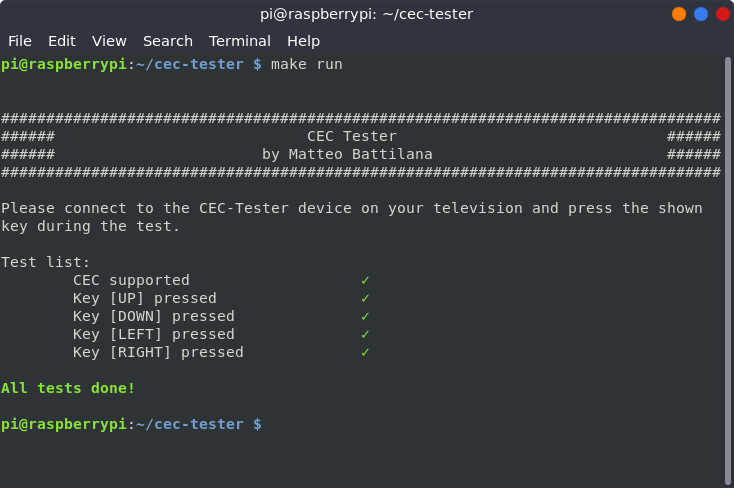
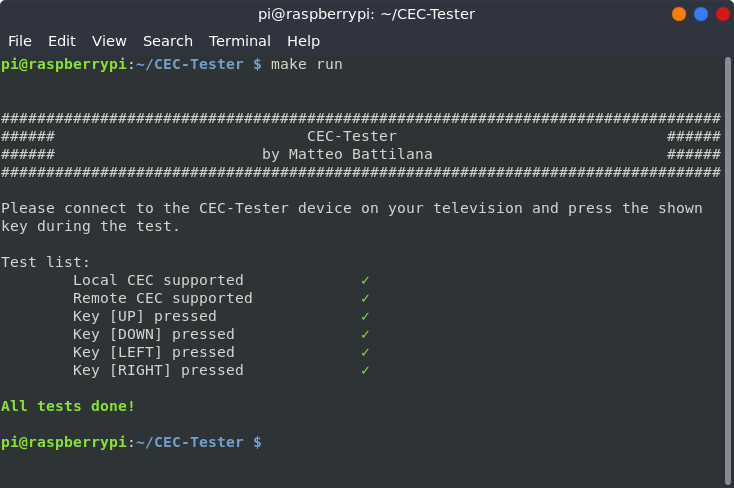
Added remote and local CEC ping test Updated screenshot according to the new features

Changed region(s): [[0.0, 0.5533, 0.3597, 0.9221], [0.3597, 0.0, 0.6594, 0.0615], [0.2098, 0.123, 0.2698, 0.1537]]

diff --git a/cec-tester.cpp b/cec-tester.cpp
@@ -58,7 +58,7 @@ int main(int argc, char* argv[])
 
 	// Setup
 	cec_config.clientVersion       = CEC::LIBCEC_VERSION_CURRENT;
-	cec_config.bActivateSource	   = 1;
+	cec_config.bActivateSource	   = 0;
 	cec_config.callbacks           = &cec_callbacks;
 	cec_config.deviceTypes.Add(CEC::CEC_DEVICE_TYPE_RECORDING_DEVICE);
 	cec_callbacks.keyPress    		 = &on_keypress;
@@ -74,7 +74,7 @@ int main(int argc, char* argv[])
 
 	// Try to automatically determine the CEC devices
 	std::array<CEC::cec_adapter_descriptor,10> devices;
-	int8_t devices_found = cec_adapter->DetectAdapters(devices.data(), devices.size(), nullptr, true);
+	int8_t devices_found = cec_adapter->DetectAdapters(devices.data(), devices.size(), NULL);
 	if( devices_found <= 0)
 	{
 		std::cout << "\tCEC supported\t\t\t\033[1;31m\u2715\033[0m" <<  std::endl;
@@ -87,13 +87,22 @@ int main(int argc, char* argv[])
 	// Open a connection to the zeroth CEC device
 	if( !cec_adapter->Open(devices[0].strComName) )
 	{
-		std::cout << "\tCEC supported\t\t\t\033[1;32m\u2715\033[0m" <<  std::endl;
+		std::cout << "\tLocal CEC supported\t\t\033[1;31m\u2715\033[0m" <<  std::endl;
 		std::cerr << "\t\033[1;31mFailed to open the CEC device on port " << devices[0].strComName  << std::endl;
 		std::cerr << std::endl << "Exiting.\033[0m" << std::endl;
 		UnloadLibCec(cec_adapter);
 		return 0;
 	}
-	std::cout << "\tCEC supported\t\t\t\033[1;32m\u2713\033[0m" <<  std::endl;
+	std::cout << "\tLocal CEC supported\t\t\033[1;32m\u2713\033[0m" <<  std::endl;
+
+	// Ping the device
+	if(!cec_adapter->PowerOnDevices())
+	{
+			std::cout << "\tRemote CEC supported\t\t\033[1;31m\u2715\033[0m" <<  std::endl;
+			UnloadLibCec(cec_adapter);
+			return 0;
+	}
+			std::cout << "\tRemote CEC supported\t\t\033[1;32m\u2713\033[0m" <<  std::endl;
 
 	for(const key &key : key_test)
 	{
